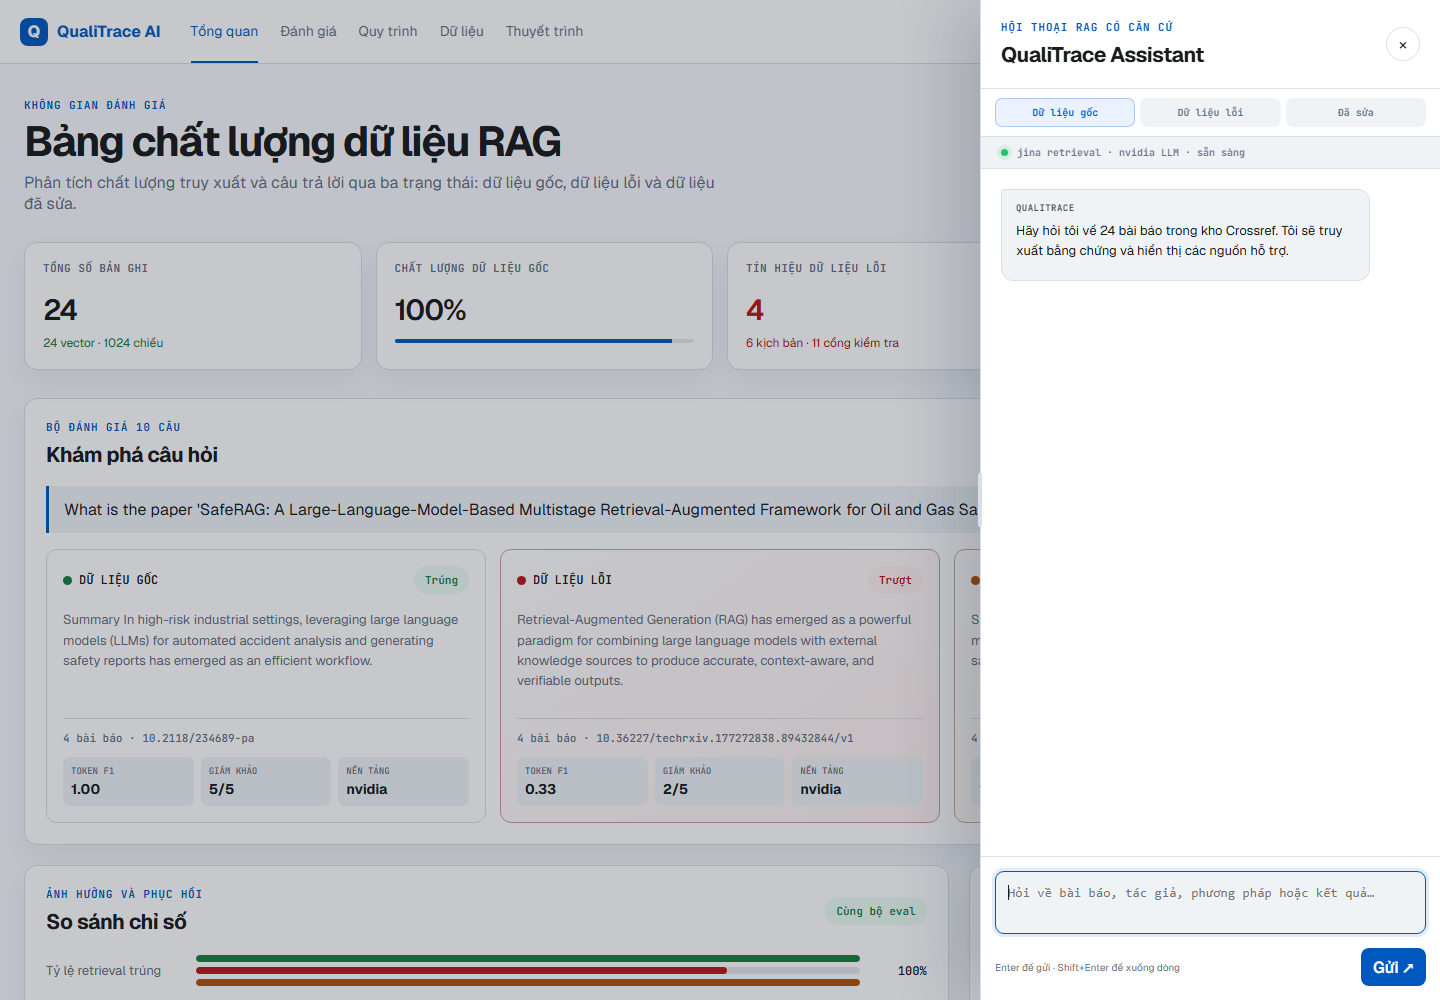
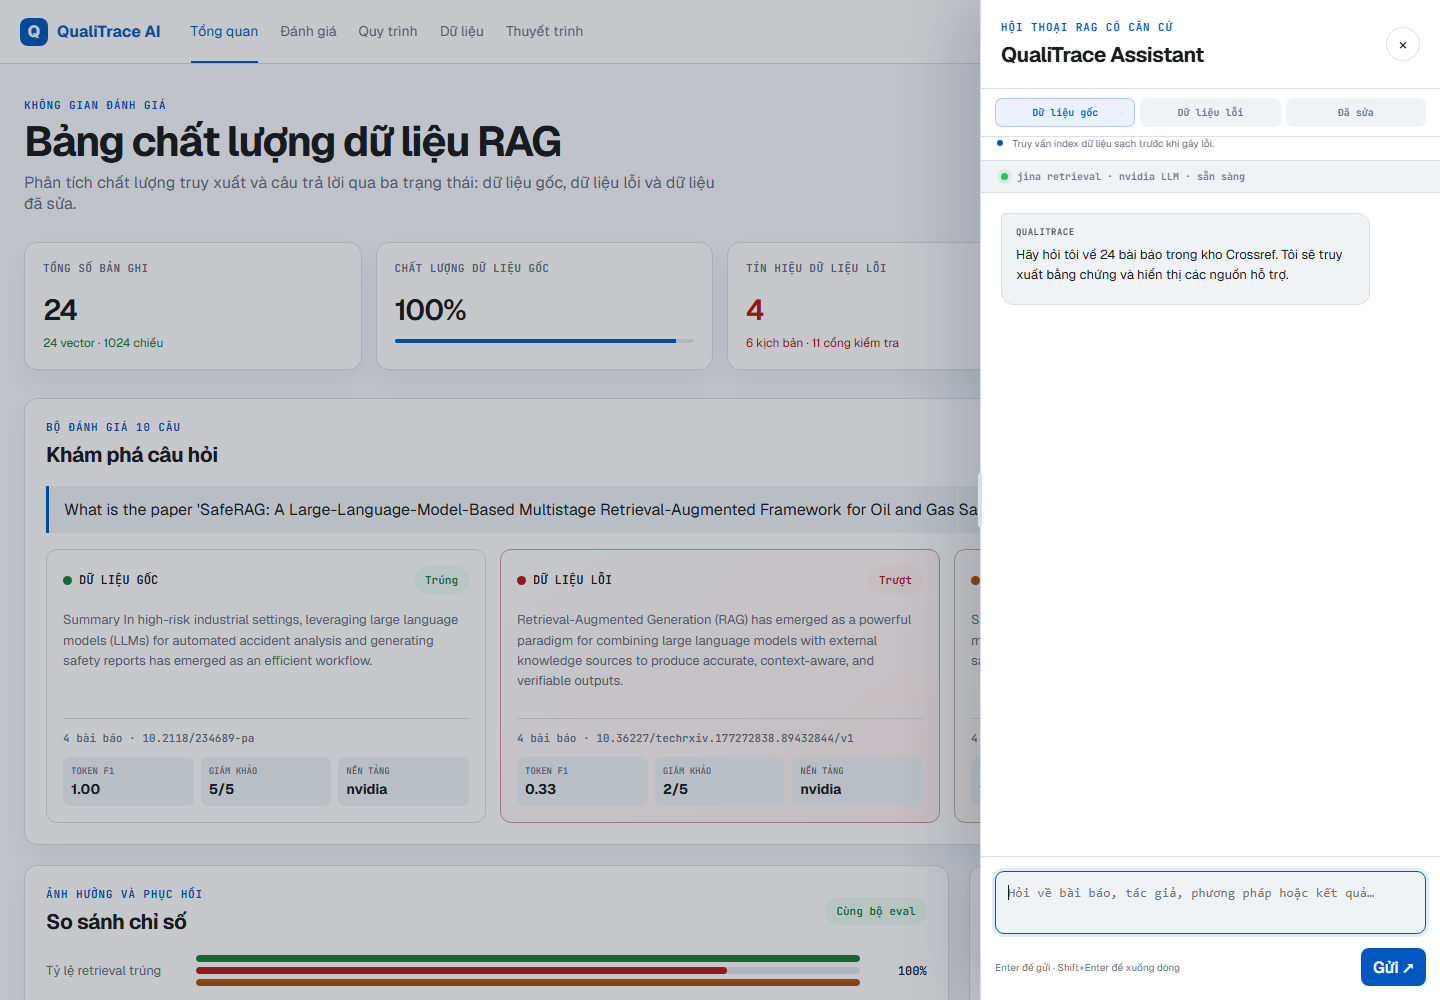
fix: keep chat mode changes out of conversation

Changed region(s): [[0.6875, 0.124, 0.9375, 0.279]]

diff --git a/ui/app.js b/ui/app.js
@@ -46,6 +46,12 @@ const stateLabels = {
   repaired: "Dữ liệu đã sửa",
 };
 
+const chatStateDescriptions = {
+  baseline: "Truy vấn index dữ liệu sạch trước khi gây lỗi.",
+  corrupted: "Truy vấn index chứa corruption để quan sát mức suy giảm.",
+  repaired: "Truy vấn index sau khi sửa có mục tiêu từ dữ liệu tốt.",
+};
+
 const questionTypeLabels = {
   summary: "tóm tắt",
   authors: "tác giả",
@@ -585,6 +591,7 @@ const setupChat = () => {
   const status = document.querySelector("#chat-status-text");
   const statusRow = status.parentElement;
   const stateSelector = document.querySelector("#chat-state-selector");
+  const stateDescription = document.querySelector("#chat-state-description");
   const history = [];
   let chatDataState = "baseline";
   const minimumWidth = 340;
@@ -669,8 +676,8 @@ const setupChat = () => {
     chatDataState = button.dataset.chatState;
     stateSelector.querySelectorAll("button").forEach((item) => item.classList.toggle("active", item === button));
     history.length = 0;
-    addMessage("assistant", `Đã chuyển sang chế độ **${stateLabels[chatDataState]}**. Lịch sử hội thoại được đặt lại để kết quả không bị lẫn giữa các trạng thái dữ liệu.`);
-    status.textContent = `Đang dùng collection ${chatDataState}`;
+    stateDescription.dataset.state = chatDataState;
+    stateDescription.textContent = chatStateDescriptions[chatDataState];
   });
 
   const checkHealth = async () => {
@@ -708,7 +715,7 @@ const setupChat = () => {
       loading.remove();
       addMessage("assistant", payload.answer, payload.sources, payload.mode);
       history.push({ role: "assistant", content: payload.answer });
-      status.textContent = `${stateLabels[payload.data_state]} · ${payload.model} · ${payload.mode.replaceAll("_", " ")}`;
+      status.textContent = `${payload.model} · ${payload.mode.replaceAll("_", " ")}`;
       statusRow.classList.remove("offline");
     } catch (error) {
       loading.remove();

diff --git a/ui/styles.css b/ui/styles.css
@@ -406,6 +406,10 @@ body.chat-resizing .chat-drawer { transition: none; }
 .chat-state-selector button.active { color: var(--primary); background: var(--primary-soft); border-color: color-mix(in srgb, var(--primary) 25%, transparent); }
 .chat-state-selector button[data-chat-state="corrupted"].active { color: var(--danger); background: var(--danger-soft); border-color: color-mix(in srgb, var(--danger) 25%, transparent); }
 .chat-state-selector button[data-chat-state="repaired"].active { color: var(--repair); background: var(--repair-soft); border-color: color-mix(in srgb, var(--repair) 25%, transparent); }
+.chat-state-description { margin: 0; padding: 0 16px 9px; color: var(--muted); background: var(--card); border-bottom: 1px solid var(--border); font-size: 10px; line-height: 1.4; }
+.chat-state-description::before { content: ""; display: inline-block; width: 6px; height: 6px; margin-right: 7px; background: var(--primary); border-radius: 50%; vertical-align: 1px; }
+.chat-state-description[data-state="corrupted"]::before { background: var(--danger); }
+.chat-state-description[data-state="repaired"]::before { background: var(--repair); }
 .chat-status { display: flex; align-items: center; gap: 9px; padding: 9px 20px; color: var(--muted); background: var(--surface-low); border-bottom: 1px solid var(--border); font: 500 10px "JetBrains Mono"; }
 .chat-status.offline .pulse { background: var(--danger); box-shadow: 0 0 0 4px color-mix(in srgb, var(--danger) 15%, transparent); }
 .chat-messages { flex: 1; display: flex; flex-direction: column; gap: 14px; padding: 20px; overflow-y: auto; }

diff --git a/ui/index.html b/ui/index.html
@@ -203,6 +203,9 @@
         <button data-chat-state="corrupted">Dữ liệu lỗi</button>
         <button data-chat-state="repaired">Đã sửa</button>
       </div>
+      <p class="chat-state-description" id="chat-state-description" data-state="baseline">
+        Truy vấn index dữ liệu sạch trước khi gây lỗi.
+      </p>
       <div class="chat-status"><i class="pulse"></i><span id="chat-status-text">Đang kết nối API retrieval…</span></div>
       <div class="chat-messages" id="chat-messages" aria-live="polite">
         <article class="chat-message assistant">
